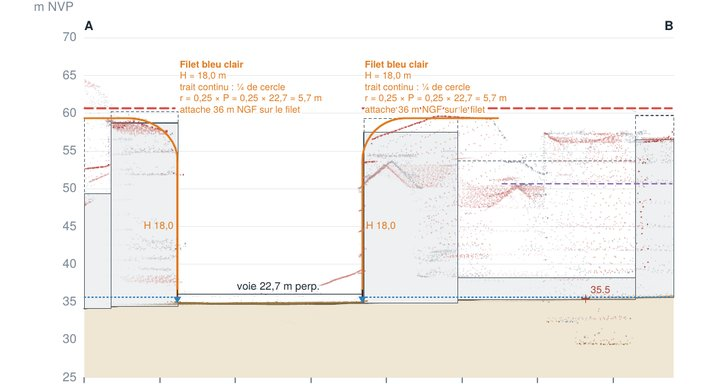
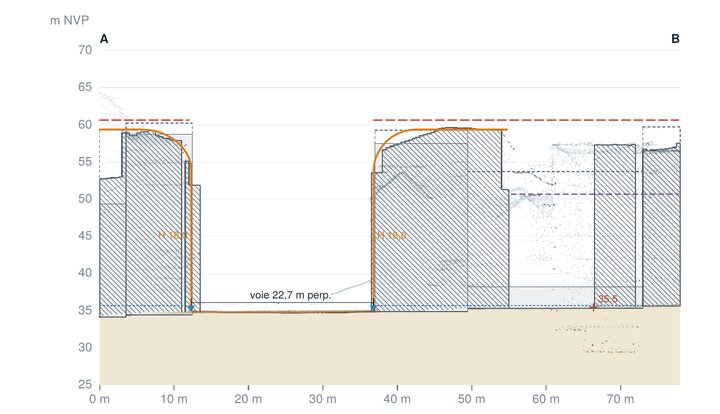
Tutoriel téléphone : carte dégagée aux étapes plan et coupe ; aperçus au nouveau design
Claude-Session: https://claude.ai/code/session_01Jh7YYgZxbD1kj8CPiBwWcx

diff --git a/static/src/18-tutoriel.js b/static/src/18-tutoriel.js
@@ -2,8 +2,8 @@
 const TUTO=[
  {el:[isMob()?'#panel':'#scroll'],h:'Une adresse, des calques',p:'Tapez une adresse pour centrer la carte sur un immeuble. Dans la liste, choisissez un calque, ici l\'âge du bâti : les bâtiments se colorent selon ce critère et la légende s\'affiche. Un clic sur un bâtiment ouvre sa fiche.',demo:tuD1},
  {el:['#pdfb'],h:'La fiche PDF',p:'Dans la fiche d\'un bâtiment, le bouton « Exporter la fiche en PDF » produit un dossier complet : carte, données sourcées, autorisations, plans historiques et coupes sur rue tracées automatiquement, de l\'immeuble d\'en face jusqu\'au fond de la parcelle.',img:'tuto-fiche.jpg',demo:tuD2},
- {el:['#zoom','#zpm'],h:'Le plan, en DXF ou en PDF',p:'Le bouton Plan propose deux formats avant de tracer un rectangle : DXF géoréférencé en Lambert 93 (un calque par couche, pour ArchiCAD, AutoCAD ou QGIS) ou PDF vectoriel aux couleurs de la carte, calques affichés compris.',img:'tuto-plan.jpg',demo:tuD3},
- {el:['#zoom'],h:'La coupe',p:'Le bouton Coupe permet de tracer une ligne de A vers B : terrain IGN, bâti, gabarits du PLU avec leurs règles, arbres selon leur essence et nuage de points LiDAR HD, avec un curseur de profondeur, un plan de repérage et la mesure. Export DXF et PDF vectoriel.',img:'tuto-coupe.jpg',demo:tuD4}];
+ {el:['#zoom','#zpm'],map:1,h:'Le plan, en DXF ou en PDF',p:'Le bouton Plan propose deux formats avant de tracer un rectangle : DXF géoréférencé en Lambert 93 (un calque par couche, pour ArchiCAD, AutoCAD ou QGIS) ou PDF vectoriel aux couleurs de la carte, calques affichés compris.',img:'tuto-plan.jpg',demo:tuD3},
+ {el:['#zoom'],map:1,h:'La coupe',p:'Le bouton Coupe permet de tracer une ligne de A vers B : terrain IGN, bâti, gabarits du PLU avec leurs règles, arbres selon leur essence et nuage de points LiDAR HD, avec un curseur de profondeur, un plan de repérage et la mesure. Export DXF et PDF vectoriel.',img:'tuto-coupe.jpg',demo:tuD4}];
 function flyView(k1,cx1,cy1,ms=1100){return new Promise(r=>{const k0=view.k,cx0=view.cx,cy0=view.cy,t0=performance.now();const st_=()=>{const u=Math.min(1,(performance.now()-t0)/ms),e=u<.5?2*u*u:1-Math.pow(-2*u+2,2)/2;view.k=k0*Math.pow(k1/k0,e);view.cx=cx0+(cx1-cx0)*e;view.cy=cy0+(cy1-cy0)*e;draw();if(u<1)requestAnimationFrame(st_);else r();};requestAnimationFrame(st_);});}
 /* démonstration : toujours le même immeuble (65 bis rue La Fayette, projet de Bouchaud Architectes), aperçus pré-calculés */
 const TS={tok:0,save:null,s:-1,cut:null};const tSleep=ms=>new Promise(r=>setTimeout(r,ms));
@@ -60,20 +60,20 @@ function tCleanStep(){TS.focus=null;$('#zpp').classList.remove('on');if(XP&&XP.d
 function tuto(){let i=0;const hl=document.createElement('div'),w=document.createElement('div'),bk=document.createElement('div');hl.id='tuhl';w.id='tuw';bk.id='tublk';w.setAttribute('role','dialog');w.setAttribute('aria-label','Tutoriel');document.body.append(bk,hl,w);
  TS.save={crit:st.crit,k:view.k,cx:view.cx,cy:view.cy,sel,card:cardFor,min:$('#panel').classList.contains('min')};TS.tok++;
  const kd=e=>{if(e.key==='Escape')end();};addEventListener('keydown',kd);
- const end=async()=>{TS.tok++;removeEventListener('resize',place);removeEventListener('keydown',kd);w.remove();bk.remove();hl.style.opacity=0;if(TCUR)TCUR.style.opacity=0;tCleanStep();
+ const end=async()=>{TS.tok++;document.body.classList.remove('tumap');removeEventListener('resize',place);removeEventListener('keydown',kd);w.remove();bk.remove();hl.style.opacity=0;if(TCUR)TCUR.style.opacity=0;tCleanStep();
   const S0=TS.save;if(S0){if(isMob()){$('#panel').classList.toggle('min',S0.min);syncTog();}if(st.crit!==S0.crit)setCrit(S0.crit);sel=S0.sel;await showCard(S0.card>=0?S0.card:-1,S0.card>=0);await flyView(S0.k,S0.cx,S0.cy,900);}hl.remove();try{localStorage.setItem('pg_tuto','1');}catch(e){}};
  const hlTo=(r,on)=>{const pd=6;Object.assign(hl.style,{left:(r.left-pd)+'px',top:(r.top-pd)+'px',width:(r.right-r.left+2*pd)+'px',height:(r.bottom-r.top+2*pd)+'px',opacity:on?1:0});};TS.hl=()=>{if(TS.focus){const r=TS.focus();if(r){hl.style.transition='none';hlTo(r,1);}}};
  function place(){const S=TUTO[i],fr_=TS.focus&&TS.focus(),rs=fr_?[fr_]:S.el.map(q=>$(q)).filter(e=>e&&e.getBoundingClientRect().width>0).map(e=>e.getBoundingClientRect());hl.style.transition='';
   let r={left:innerWidth/2-90,top:innerHeight/2-90,right:innerWidth/2+90,bottom:innerHeight/2+90};if(rs.length)r={left:Math.min(...rs.map(r=>r.left)),top:Math.min(...rs.map(r=>r.top)),right:Math.max(...rs.map(r=>r.right)),bottom:Math.min(innerHeight-8,Math.max(...rs.map(r=>r.bottom)))};
   const pd=6;hlTo(r,rs.length);
   const ww=w.offsetWidth,wh=w.offsetHeight,M=12;let x,y;
-  if(innerWidth<640){x=(innerWidth-ww)/2;y=r.top>innerHeight/2?M:innerHeight-wh-M;}
+  if(innerWidth<640){x=(innerWidth-ww)/2;y=S.map||r.top>innerHeight/2?M:innerHeight-wh-M;}
   else if(S.img&&w.querySelector('.tuim.on')){x=Math.min(Math.max(M,r.left-ww-M-pd),innerWidth-ww-M);if(x+ww>r.left-pd&&r.left>ww+2*M)x=r.left-ww-M-pd;y=innerHeight-wh-M;}
   else if(r.left-M-ww>M){x=r.left-M-ww-pd;y=Math.min(Math.max(M,r.top),innerHeight-wh-M);}
   else if(r.right+M+ww<innerWidth-M){x=r.right+M+pd;y=Math.min(Math.max(M,r.top),innerHeight-wh-M);}
   else{x=(innerWidth-ww)/2;y=Math.min(innerHeight-wh-M,r.bottom+M+pd);}
   Object.assign(w.style,{left:Math.max(M,x)+'px',top:Math.max(M,y)+'px'});}
- async function show(){const S=TUTO[i],tok=++TS.tok;tCleanStep();
+ async function show(){const S=TUTO[i],tok=++TS.tok;tCleanStep();document.body.classList.toggle('tumap',!!S.map&&isMob());
   w.innerHTML='<div class="tun">'+TUTO.map((_,k)=>'<span'+(k===i?' class="on"':'')+'>'+(k+1)+'</span>').join('')+'</div><h4>'+S.h+'</h4>'+(isMob()?'<button class="tumo" type="button" aria-expanded="false">Voir plus</button>':'')+'<div class="tumore"><p>'+S.p+'</p>'+(S.img?'<div class="tuim"><img alt="Aperçu" src="'+S.img+'" onerror="this.parentNode.remove()"></div>':'')+'</div><div class="tub"><button class="tus" type="button">Passer</button><span>'+(i?'<button class="tup" type="button">Précédent</button>':'')+'<button class="tuo" type="button">'+(i<TUTO.length-1?'Suivant':'Terminer')+'</button></span></div>';
   const mo=w.querySelector('.tumo');if(mo)mo.onclick=()=>{const o=w.classList.toggle('more');mo.textContent=o?'Voir moins':'Voir plus';mo.setAttribute('aria-expanded',o?'true':'false');place();setTimeout(place,480);};
   w.querySelector('.tus').onclick=end;w.querySelector('.tuo').onclick=()=>{if(i<TUTO.length-1){i++;show();}else end();};const pv=w.querySelector('.tup');if(pv)pv.onclick=()=>{i--;show();};

diff --git a/static/src/style.css b/static/src/style.css
@@ -270,3 +270,6 @@ body.essai #cutw .cuttb button{color:#dbe3e9;border-color:#33475a}body.essai #cu
 #xmsg .xmore{margin-top:6px;font-size:var(--fs-s);line-height:1.45;opacity:.9;max-width:520px}
 #xmsg .xmore[hidden]{display:none}
 @media(max-width:760px),(max-width:1024px) and (orientation:portrait){#xmsg{font-size:var(--fs-s);padding:7px 10px;max-width:calc(100vw - 80px);left:12px;transform:none;top:10px}#xmsg .xq{width:26px;height:26px}#xmsg .msb{margin-left:6px}}
+
+/* tutoriel sur téléphone : étapes plan et coupe, la carte seule */
+body.tumap #panel{transform:translateY(110%)!important;transition:transform .35s ease;pointer-events:none}

diff --git a/tests/apercus.py b/tests/apercus.py
@@ -1,0 +1,34 @@
+"""Régénère les aperçus du tutoriel (static/tuto-*.jpg) depuis un site construit avec hooks.
+Usage : python3 tests/apercus.py <dossier_site> <dossier_sortie>"""
+import sys,os,functools,http.server,threading,subprocess
+SITE,OUT=sys.argv[1],sys.argv[2]
+class _Q(http.server.SimpleHTTPRequestHandler):
+    def log_message(self,*a):pass
+srv=http.server.ThreadingHTTPServer(('127.0.0.1',0),functools.partial(_Q,directory=SITE));threading.Thread(target=srv.serve_forever,daemon=True).start()
+URL='http://127.0.0.1:%d/'%srv.server_address[1]
+from playwright.sync_api import sync_playwright
+def dl(pg,action,name):
+  with pg.expect_download(timeout=300000) as d: action()
+  p='/tmp/ap/'+name;d.value.save_as(p);return p
+def png(pdf,name,page=1,w=1440):
+  subprocess.run(['pdftoppm','-png','-r','150','-f',str(page),'-l',str(page),'-scale-to-x',str(w),'-scale-to-y','-1',pdf,'/tmp/ap/'+name],check=True)
+  return [f for f in sorted(os.listdir('/tmp/ap')) if f.startswith(name) and f.endswith('.png')][0]
+with sync_playwright() as p:
+ b=p.chromium.launch(args=['--use-gl=swiftshader','--enable-unsafe-swiftshader'])
+ pg=b.new_page(viewport={'width':1400,'height':900},accept_downloads=True)
+ pg.add_init_script("try{localStorage.setItem('pg_tuto','1')}catch(e){}")
+ pg.goto(URL+'?c=per');pg.wait_for_function("!!(window.parisGraphie&&document.querySelector('#crit details.lsec'))",timeout=90000);pg.wait_for_timeout(1500)
+ pg.fill('#q','65 bis rue la fayette');pg.wait_for_timeout(2000);pg.keyboard.press('Enter');pg.wait_for_timeout(5000)
+ f=dl(pg,lambda:pg.click('#card #pdfb'),'fiche.pdf');print('fiche',png(f,'fiche'))
+ pg.evaluate("__t.tuto()")
+ for k in range(3):pg.wait_for_timeout(6000);pg.click('#tuw .tuo')
+ pg.wait_for_timeout(12000);pg.keyboard.press('Escape');pg.wait_for_timeout(3000)
+ pg.click('#cx') if pg.is_visible('#cx') else None;pg.wait_for_timeout(800)
+ def rect():
+  pg.mouse.move(420,170);pg.mouse.down();pg.mouse.move(1000,780,steps=8);pg.mouse.up()
+ pg.click('#zp');pg.wait_for_timeout(300);pg.click('#zpp');pg.wait_for_timeout(300);f=dl(pg,rect,'plan.pdf');print('plan',png(f,'plan'))
+ pg.screenshot(path='/tmp/ap/vue.png')
+ pg.evaluate("__t.tcut()")
+ pg.wait_for_function("document.querySelector('#cutw')&&!document.querySelector('#cutw').hidden&&document.querySelector('#cutw .cutsvg svg')",timeout=90000);pg.wait_for_timeout(15000)
+ f=dl(pg,lambda:pg.click('#cuts'),'coupe.pdf');print('coupe',png(f,'coupe'))
+ b.close()

diff --git a/pipeline/step_site.py b/pipeline/step_site.py
@@ -32,7 +32,7 @@ def html(hooks=False, dv=None):
     # DV : version des données dans les URL (cache navigateur). Elle ne change que si les données changent,
     # pour qu'une simple republication de la page ne force pas à retélécharger 7 Mo.
     t = re.sub(r"const DV='\w+';", "const DV='%s';" % (dv or time.strftime('%Y%m%d%H%M')), t, count=1)
-    if hooks: t = t.replace('window.parisGraphie={', 'window.__ms=()=>MS;window.__t={tuto:()=>tuto()};window.__cut=(a,b,c,d)=>cutShow(llToW(a,b),llToW(c,d));window.parisGraphie={', 1)
+    if hooks: t = t.replace('window.parisGraphie={', 'window.__ms=()=>MS;window.__t={tuto:()=>tuto(),tcut:()=>TS.cut&&cutShow(TS.cut.A,TS.cut.B),sel:()=>sel};window.__cut=(a,b,c,d)=>cutShow(llToW(a,b),llToW(c,d));window.parisGraphie={', 1)
     return t
 
 def write_page(out):

diff --git a/CHANGELOG.md b/CHANGELOG.md
@@ -9,6 +9,8 @@ Pour signaler une anomalie : h.bokobza@bouchaudarchitectes.com
 ## 2026-11-27
 
 ### Modifié
+- Tutoriel sur téléphone : aux étapes plan et coupe, le panneau des calques s'efface et la fenêtre du tutoriel passe en haut, pour laisser voir le rectangle et le trait de coupe.
+- Aperçus du tutoriel (fiche, plan, coupe) refaits avec le nouveau design ; script tests/apercus.py pour les régénérer.
 - Aides réduites à une ligne, le détail derrière un « ? » : tracé de coupe, export de plan, mesure sur la carte ; dans la fenêtre de coupe, bouton « ? » vers « Comment chaque élément est calculé », replié par défaut sur téléphone et tablette.
 - Coupe : boutons zoom + et − retirés (zoom au pincement à deux doigts, ou Ctrl + molette) ; « revenir à toute la coupe » n'apparaît qu'une fois zoomé ; le dessin défile de nouveau dans les deux sens au doigt.
 - Nouveau design publié par défaut (l'ancien reste accessible par `?essai=0` le temps de la transition) : accueil avec un seul champ d'adresse, charte de l'agence, typographie plus grande.
